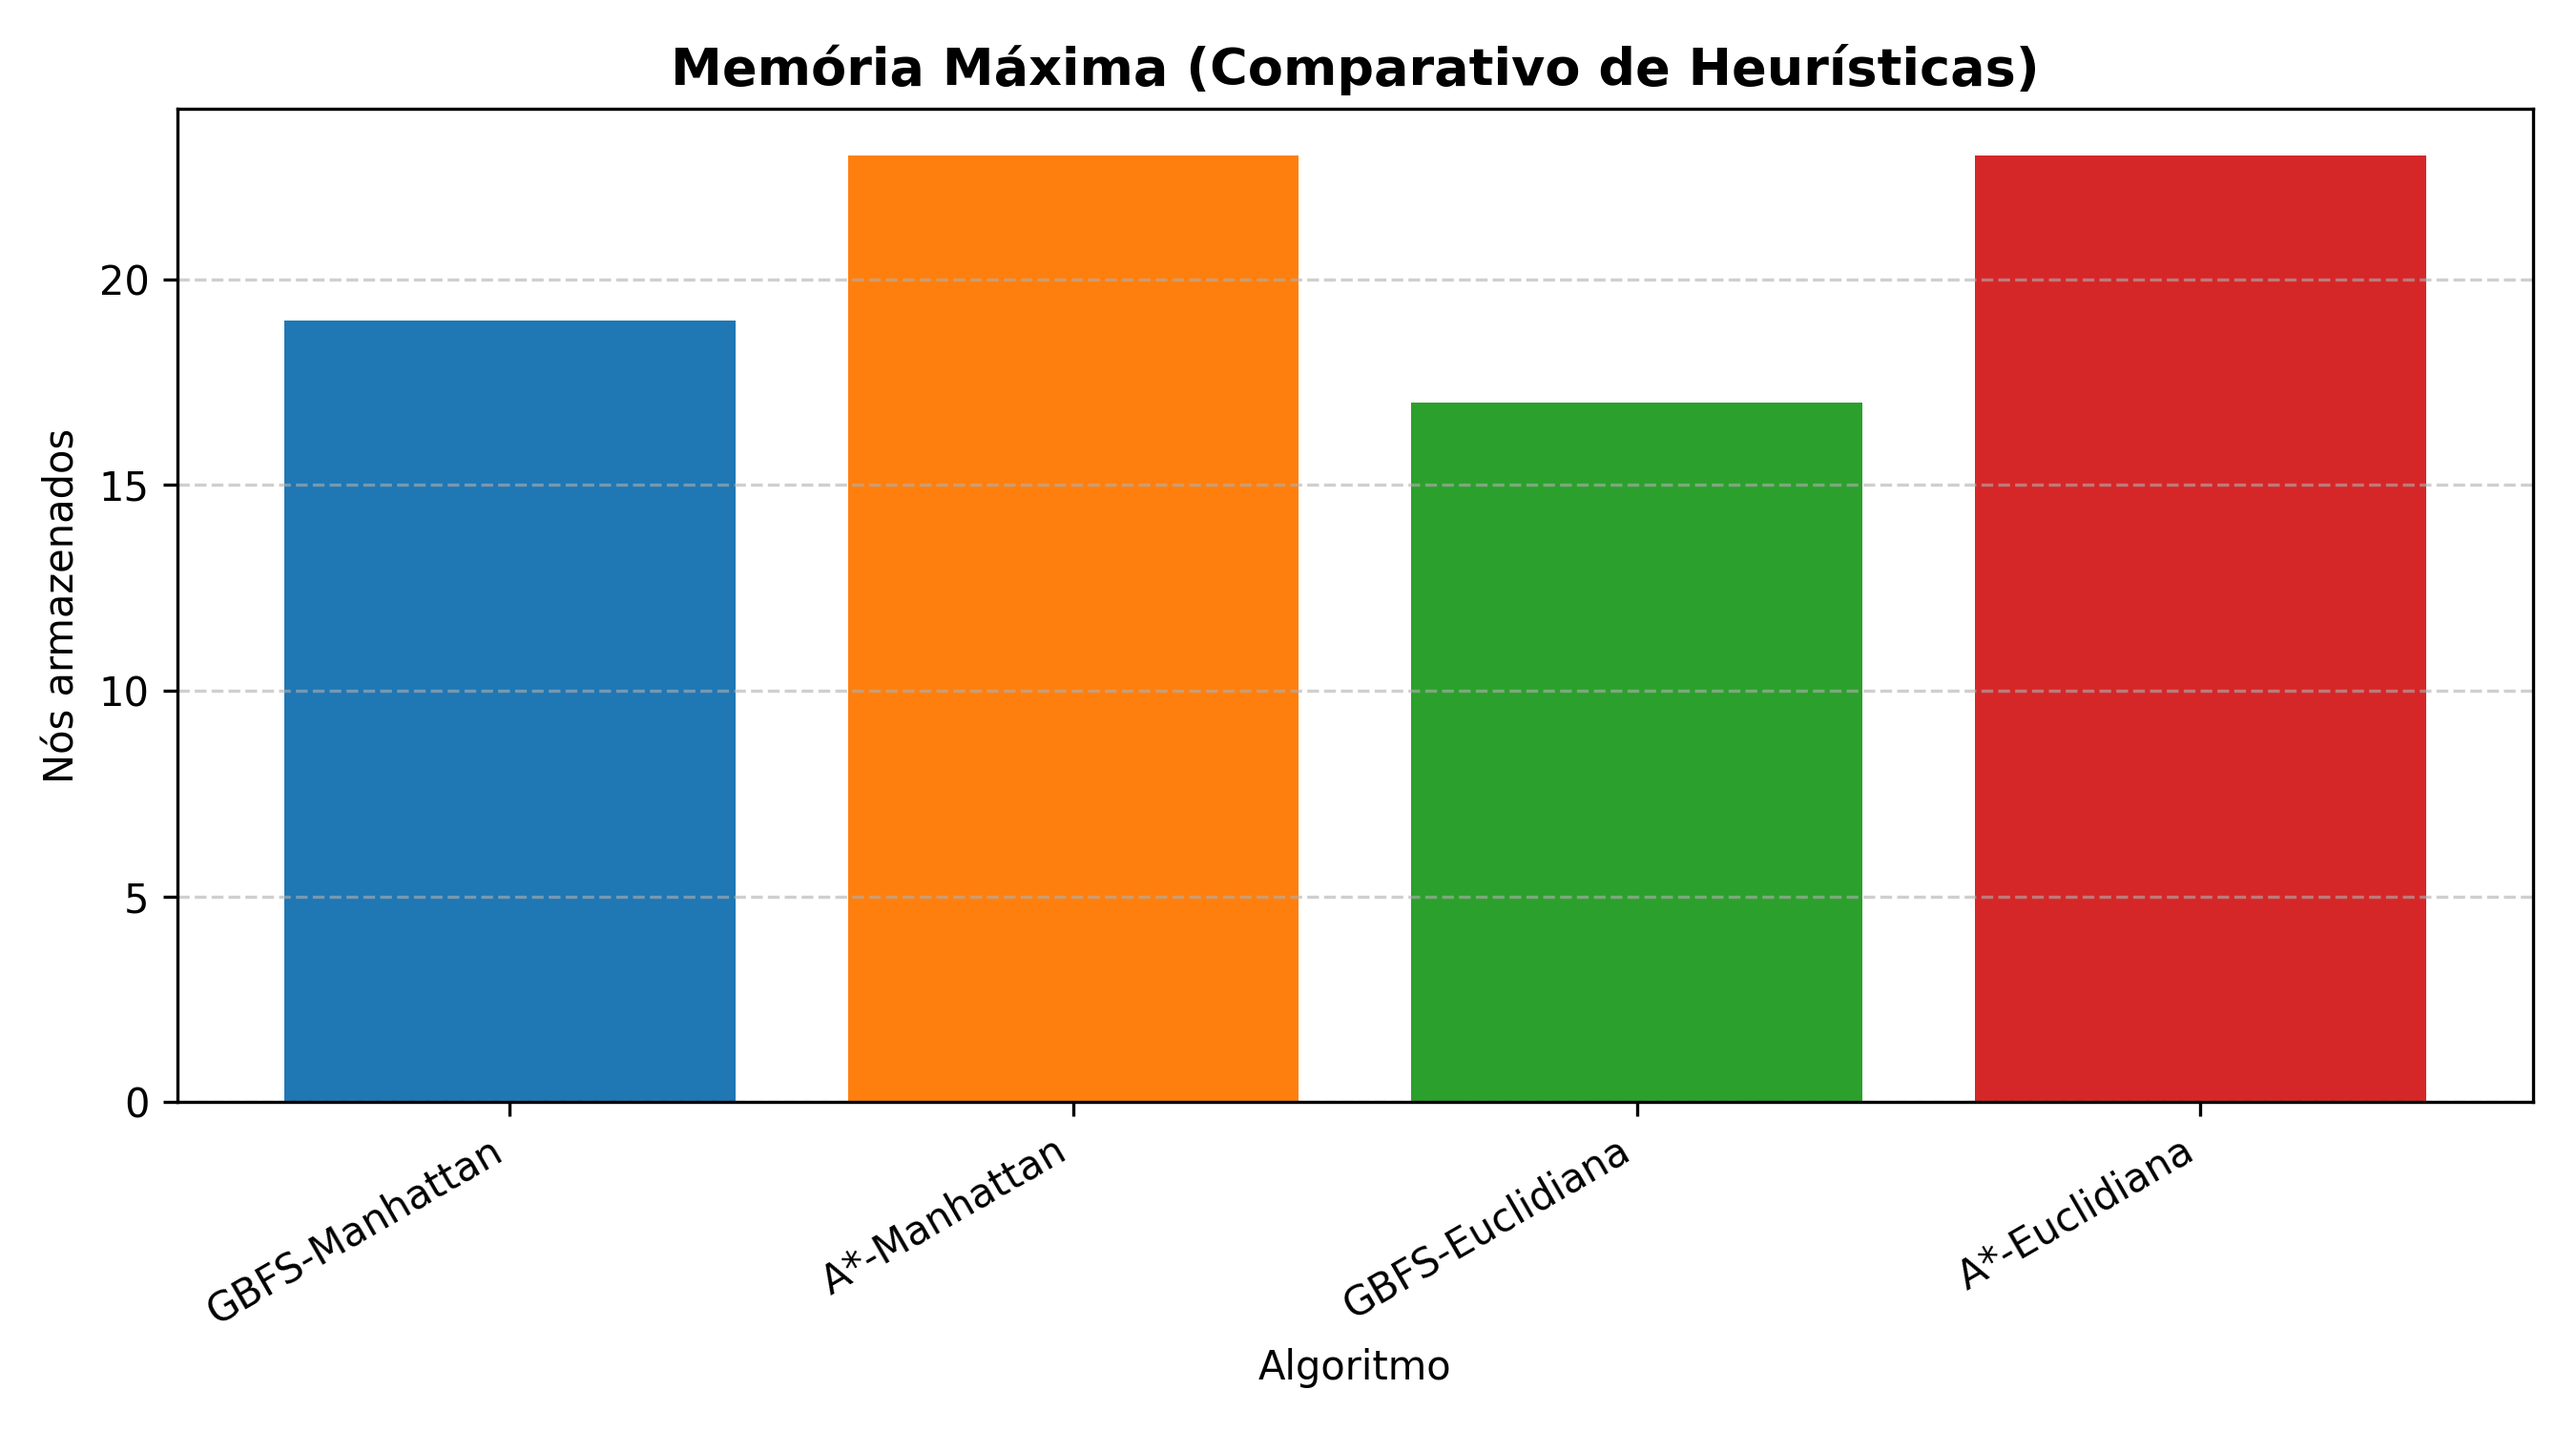
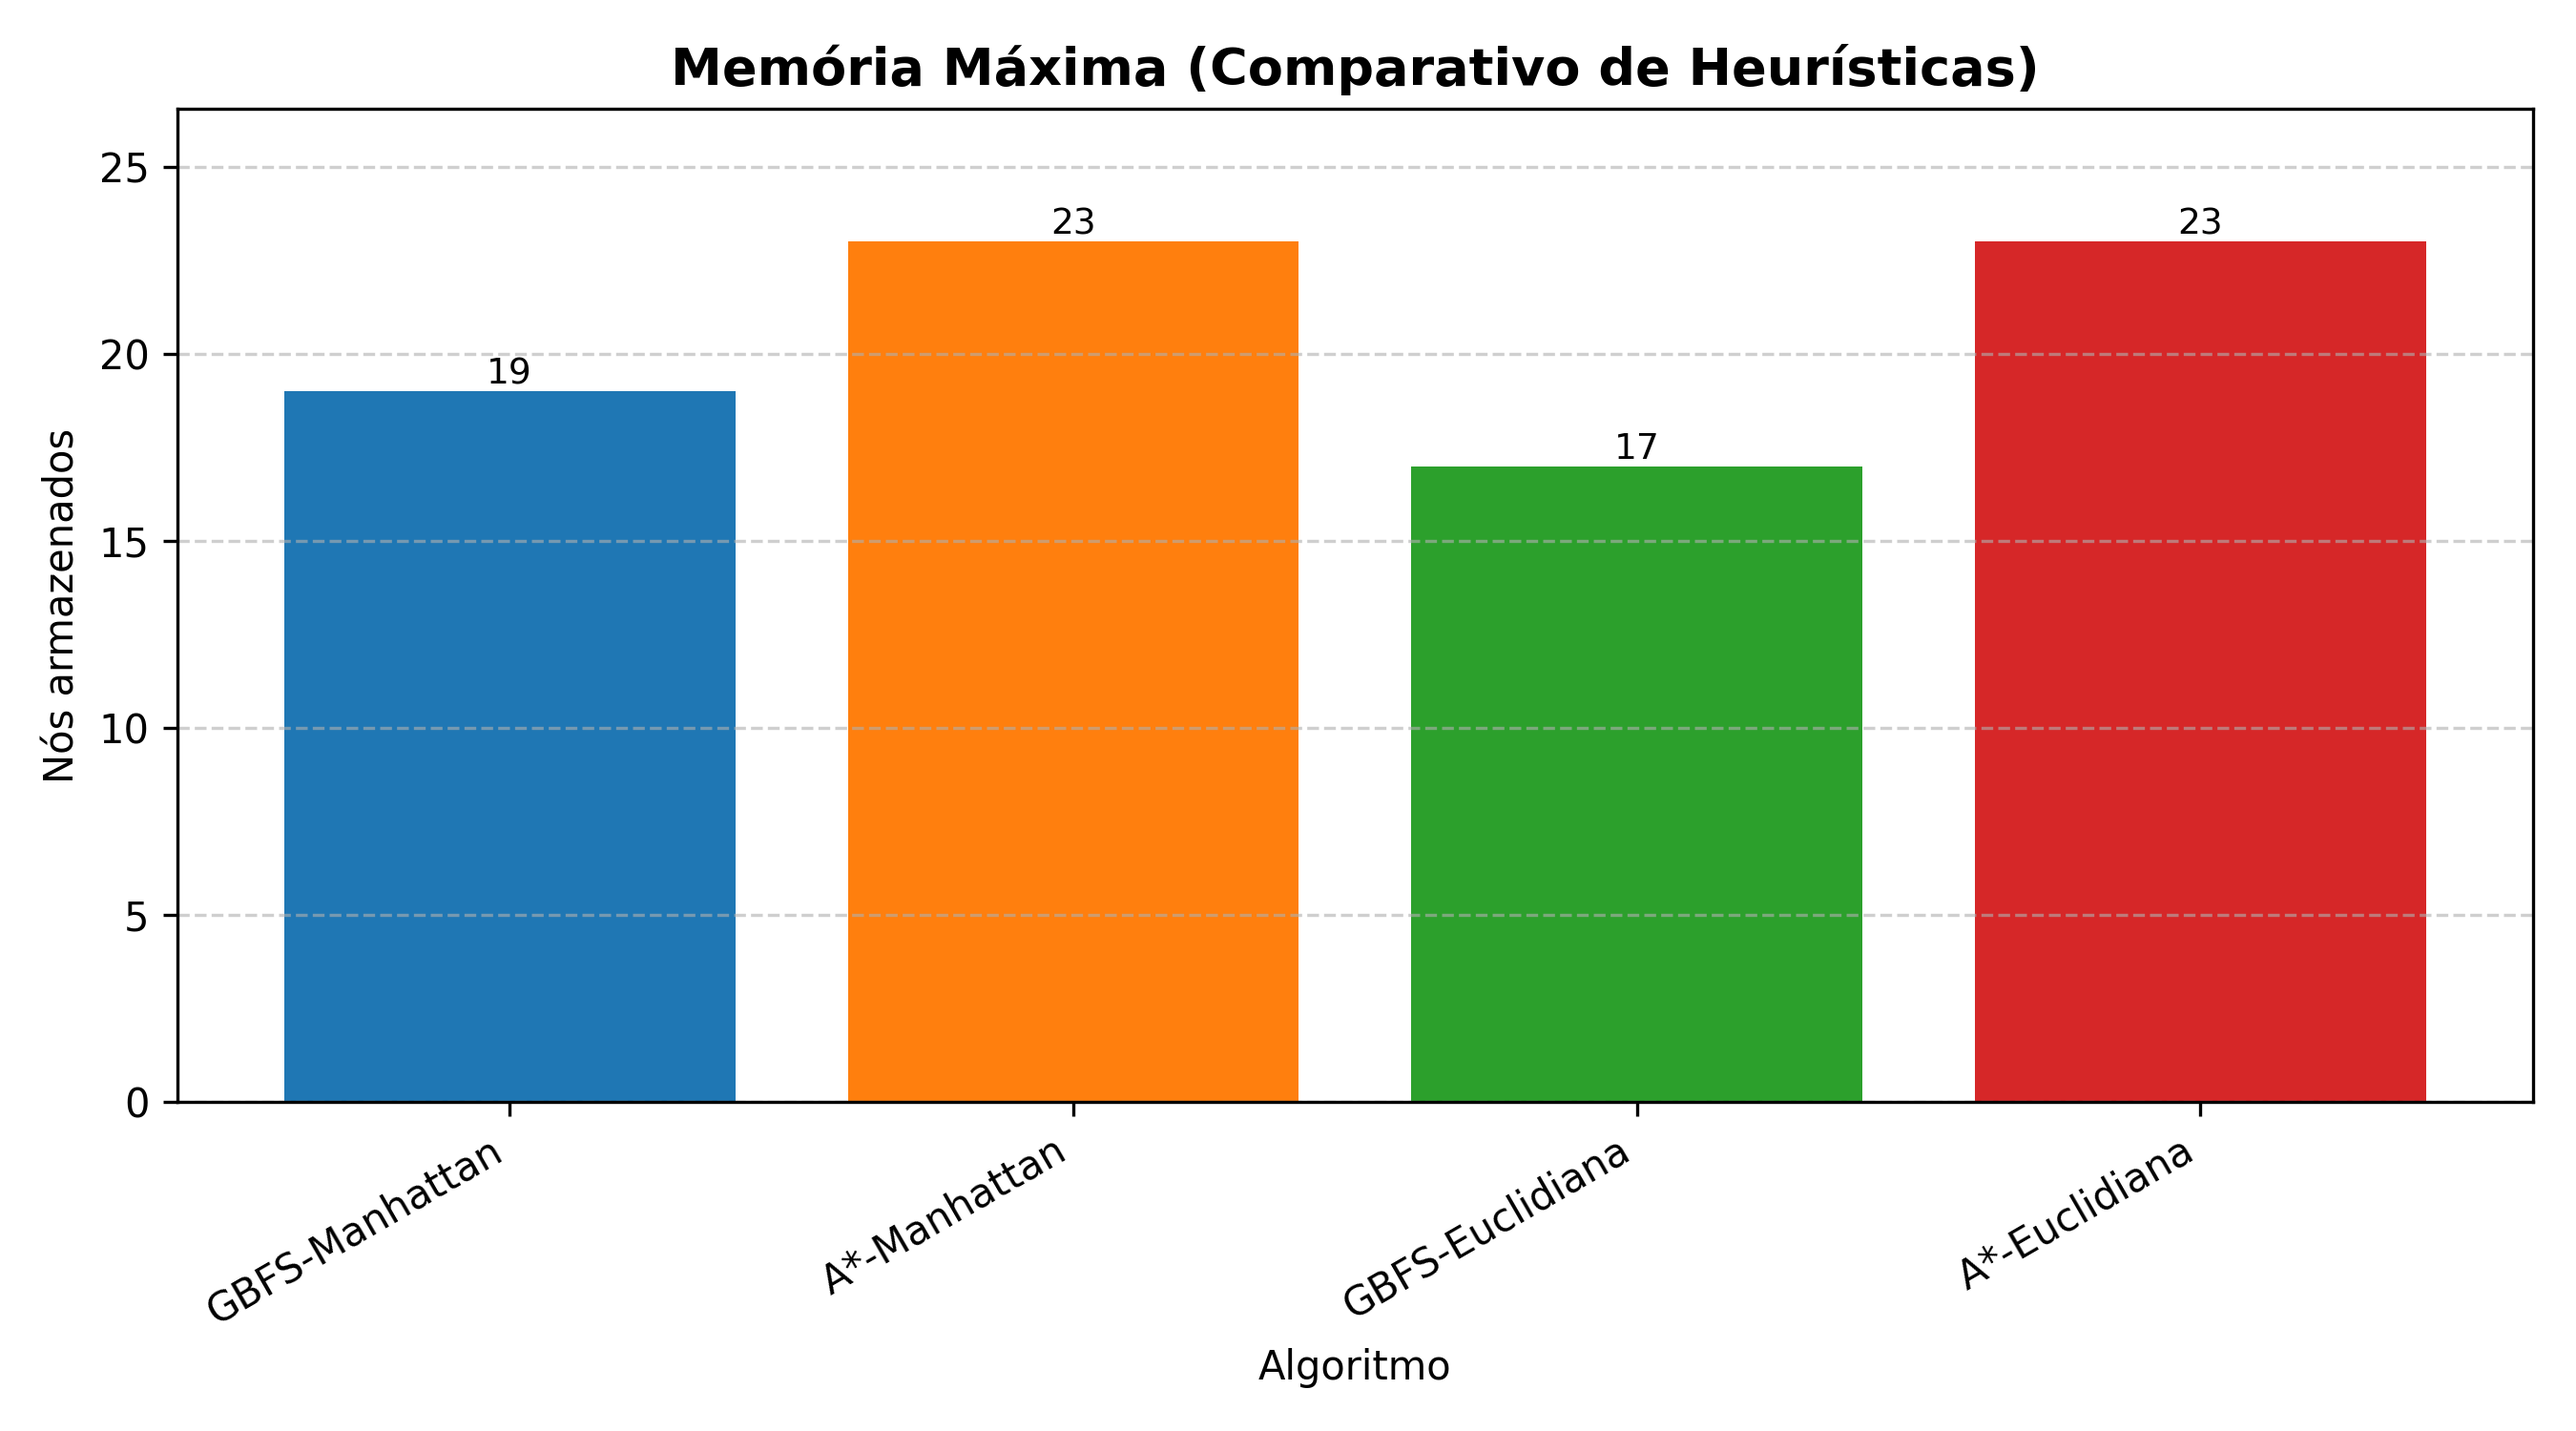
update grafico

diff --git a/trabalho1/src/main.py b/trabalho1/src/main.py
@@ -71,11 +71,28 @@ def gerar_graficos(resultados, pasta_saida, titulo_extra=""):
     def plot_bar(y, titulo, ylabel, nome_arquivo):
         plt.figure(figsize=(9, 5))
         plt.bar(nomes, y, color=cores[:len(nomes)])
+        
+        # --- NOVO CÓDIGO PARA ADICIONAR RÓTULOS ---
+        for i, valor in enumerate(y):
+            # Formata como float (4 casas) se for tempo, senão como inteiro
+            if isinstance(valor, float):
+                label_texto = f"{valor:.4f}"
+            else:
+                label_texto = f"{valor}"
+            
+            # Adiciona o texto acima da barra
+            plt.text(i, valor, label_texto, ha='center', va='bottom', fontsize=9)
+        # --- FIM DO NOVO CÓDIGO ---
+            
         plt.title(f"{titulo} {titulo_extra}", fontsize=13, fontweight='bold')
         plt.ylabel(ylabel)
         plt.xlabel("Algoritmo")
         plt.xticks(rotation=30, ha="right")
         plt.grid(axis="y", linestyle="--", alpha=0.6)
+        
+        # Ajusta o limite Y para dar espaço para os rótulos
+        plt.ylim(top=plt.ylim()[1] * 1.1) 
+        
         plt.tight_layout()
         plt.savefig(f"{pasta_saida}/{nome_arquivo}.png", dpi=300)
         plt.close()
@@ -84,7 +101,7 @@ def gerar_graficos(resultados, pasta_saida, titulo_extra=""):
     plot_bar(tempos, "Tempo de Execução", "Tempo (s)", "tempo_execucao")
     plot_bar(expandidos, "Nós Expandidos", "Quantidade", "nos_expandidos")
     plot_bar(memoria, "Memória Máxima", "Nós armazenados", "memoria_maxima")
-    plot_bar(custo, "Custo do Caminho", "Passos até o objetivo", "custo_caminho")
+    plot_bar(custo, "Custo do Caminho", "Passos até o objetivo", "costo_caminho")
 
     print(f"✅ Gráficos salvos em: {pasta_saida}/")
 
